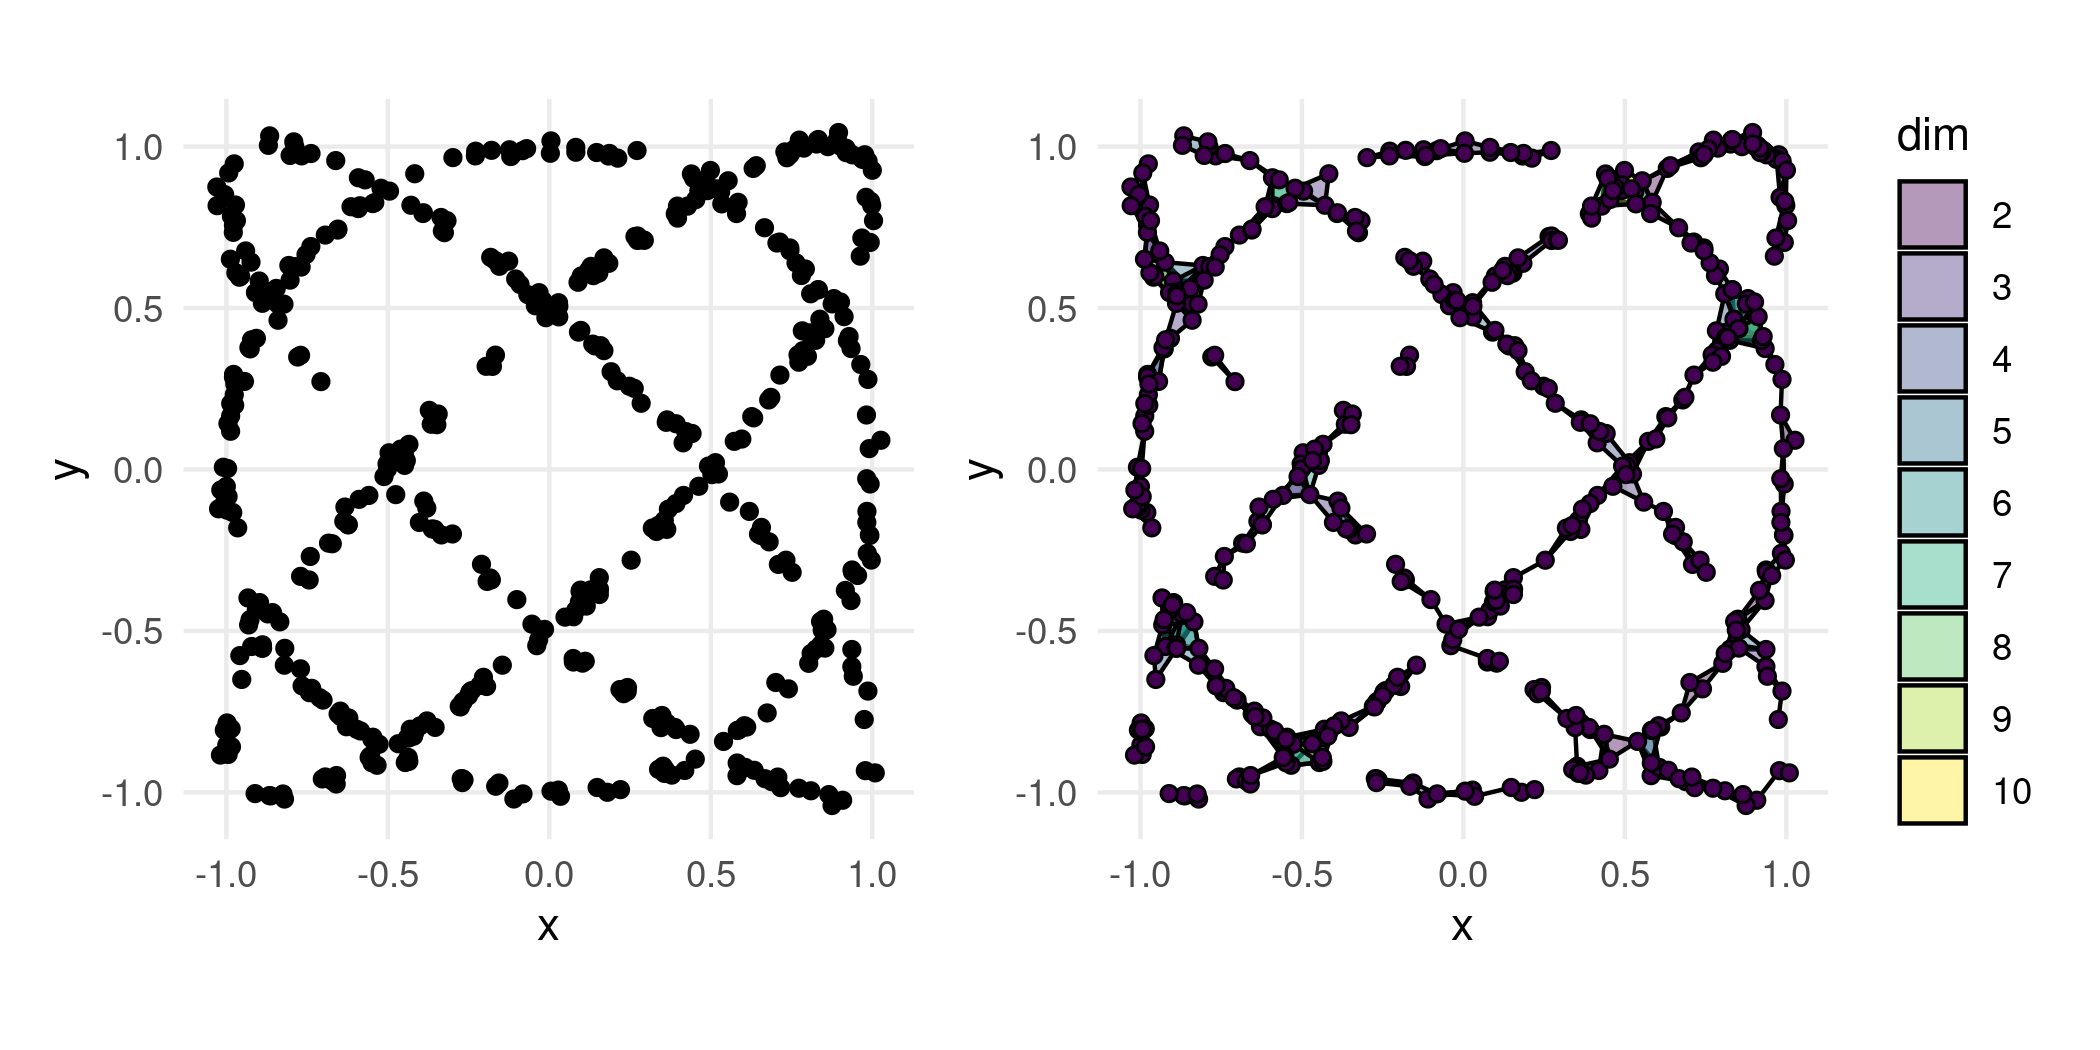
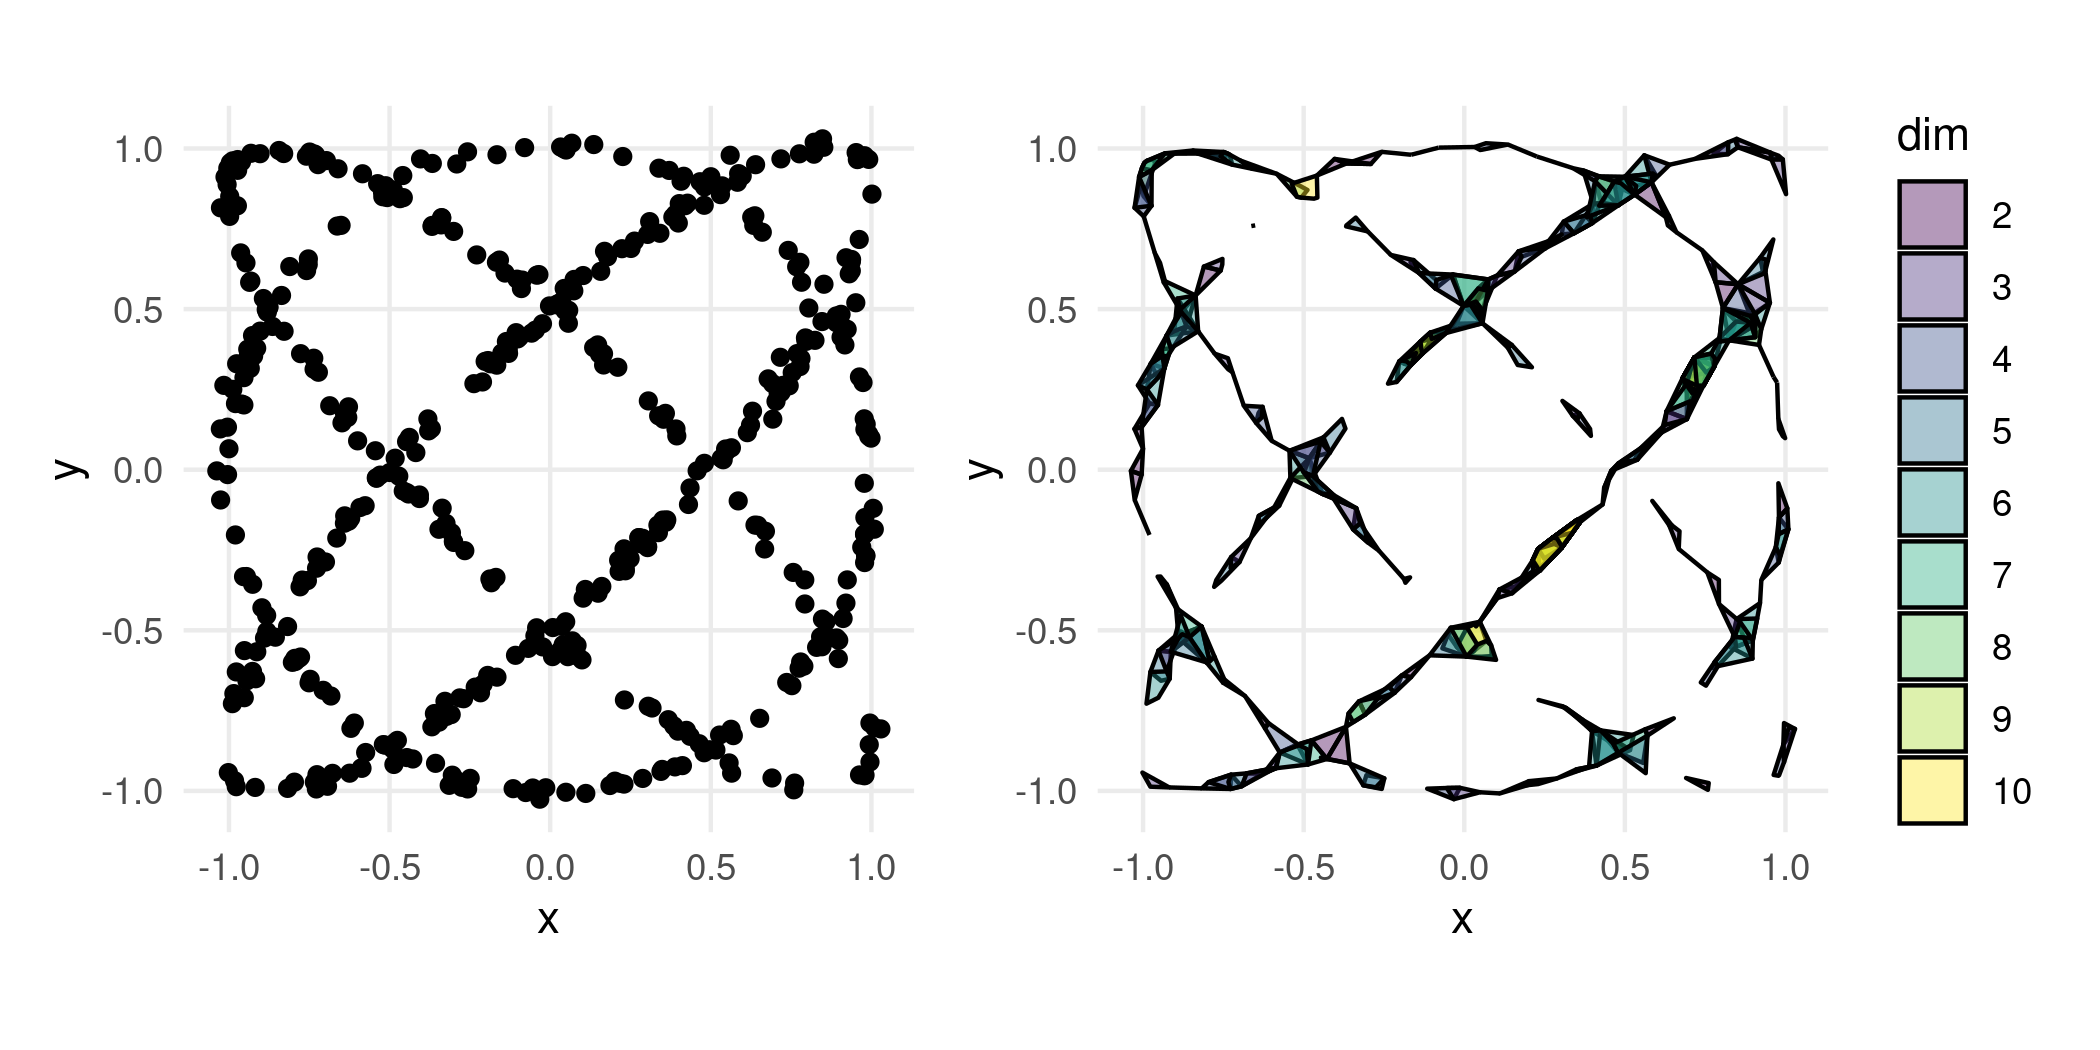
Small README fixes

diff --git a/README.md b/README.md
@@ -135,7 +135,7 @@ ggplot(df_groups, aes(x, y, fill = lab)) +
 <img src="man/figures/README-unnamed-chunk-7-1.png" width="100%" />
 
 It is also possible to use the `fill` aesthetic to visualize the simplex
-dimensions, it just requires faceting:
+dimensions. Typically, faceting the resulting plot is a good idea:
 
 ``` r
 ggplot(df_groups, aes(x, y)) +
@@ -167,7 +167,7 @@ homology](https://en.wikipedia.org/wiki/Persistent_homology)!
 
 In the above animation, we see the structure of the Rips complexes
 change as the radii increase. For example, in the top right plot we see
-two disconnected components last a couple of seconds. In the bottom
+two disconnected components that last a couple of seconds. In the bottom
 right plot, the central hole is present for almost the entire animation.
 In the first plot, we see quite a few short-lived holes, but overall
 there are no features that persist for more than a few frames.
@@ -221,9 +221,8 @@ data via aesthetic mappings: the `point_data` aesthetic.
 
 Both `geom_barcode()` and `geom_persistence()` accept the optional
 `point_data` aesthetic. This aesthetic is different from the typical
-**ggplot2** aesthetics—it needs to be pointing at a list column which
-contains rows of `data.frames`. For example, see how we construct
-`df_nested`:
+**ggplot2** aesthetics—it needs to be pointing at a list column with
+`data.frame` elements. For example, see how we construct `df_nested`:
 
 ``` r
 library("tidyverse")
@@ -242,8 +241,8 @@ df_nested
 #> 2 b     <tibble [50 × 2]>
 ```
 
-This allows for faceting based, see below how we plot barcode charts for
-each group in `df_group`:
+This approach allows for easy faceting. See below how we plot barcode
+charts for each group in `df_group`:
 
 ``` r
 ggplot(df_nested) +
@@ -254,7 +253,7 @@ ggplot(df_nested) +
 
 <img src="man/figures/README-unnamed-chunk-12-1.png" width="100%" />
 
-And similarly, we plot multiple persistence diagrams:
+Similarly, we can plot multiple persistence diagrams:
 
 ``` r
 ggplot(df_nested) +
@@ -315,31 +314,7 @@ set.seed(1)
 df_lissajous <- rvnorm(500, lissajous(3, 3,  0, 0), .014, "tibble", chains = 8) |>
   select(x, y) |>
   slice_sample(n = 500)
-#> Compiling model... Trying to compile a simple C file
-#> Running /usr/lib/R/bin/R CMD SHLIB foo.c
-#> gcc -I"/usr/share/R/include" -DNDEBUG   -I"/home/ubuntu/R/x86_64-pc-linux-gnu-library/4.2/Rcpp/include/"  -I"/home/ubuntu/R/x86_64-pc-linux-gnu-library/4.2/RcppEigen/include/"  -I"/home/ubuntu/R/x86_64-pc-linux-gnu-library/4.2/RcppEigen/include/unsupported"  -I"/home/ubuntu/R/x86_64-pc-linux-gnu-library/4.2/BH/include" -I"/home/ubuntu/R/x86_64-pc-linux-gnu-library/4.2/StanHeaders/include/src/"  -I"/home/ubuntu/R/x86_64-pc-linux-gnu-library/4.2/StanHeaders/include/"  -I"/home/ubuntu/R/x86_64-pc-linux-gnu-library/4.2/RcppParallel/include/"  -I"/home/ubuntu/R/x86_64-pc-linux-gnu-library/4.2/rstan/include" -DEIGEN_NO_DEBUG  -DBOOST_DISABLE_ASSERTS  -DBOOST_PENDING_INTEGER_LOG2_HPP  -DSTAN_THREADS  -DBOOST_NO_AUTO_PTR  -include '/home/ubuntu/R/x86_64-pc-linux-gnu-library/4.2/StanHeaders/include/stan/math/prim/mat/fun/Eigen.hpp'  -D_REENTRANT -DRCPP_PARALLEL_USE_TBB=1      -fpic  -g -O2 -fdebug-prefix-map=/build/r-base-asoVQd/r-base-4.2.1=. -fstack-protector-strong -Wformat -Werror=format-security -Wdate-time -D_FORTIFY_SOURCE=2  -c foo.c -o foo.o
-#> In file included from /home/ubuntu/R/x86_64-pc-linux-gnu-library/4.2/RcppEigen/include/Eigen/Core:88,
-#>                  from /home/ubuntu/R/x86_64-pc-linux-gnu-library/4.2/RcppEigen/include/Eigen/Dense:1,
-#>                  from /home/ubuntu/R/x86_64-pc-linux-gnu-library/4.2/StanHeaders/include/stan/math/prim/mat/fun/Eigen.hpp:13,
-#>                  from <command-line>:
-#> /home/ubuntu/R/x86_64-pc-linux-gnu-library/4.2/RcppEigen/include/Eigen/src/Core/util/Macros.h:628:1: error: unknown type name ‘namespace’
-#>   628 | namespace Eigen {
-#>       | ^~~~~~~~~
-#> /home/ubuntu/R/x86_64-pc-linux-gnu-library/4.2/RcppEigen/include/Eigen/src/Core/util/Macros.h:628:17: error: expected ‘=’, ‘,’, ‘;’, ‘asm’ or ‘__attribute__’ before ‘{’ token
-#>   628 | namespace Eigen {
-#>       |                 ^
-#> In file included from /home/ubuntu/R/x86_64-pc-linux-gnu-library/4.2/RcppEigen/include/Eigen/Dense:1,
-#>                  from /home/ubuntu/R/x86_64-pc-linux-gnu-library/4.2/StanHeaders/include/stan/math/prim/mat/fun/Eigen.hpp:13,
-#>                  from <command-line>:
-#> /home/ubuntu/R/x86_64-pc-linux-gnu-library/4.2/RcppEigen/include/Eigen/Core:96:10: fatal error: complex: No such file or directory
-#>    96 | #include <complex>
-#>       |          ^~~~~~~~~
-#> compilation terminated.
-#> make: *** [/usr/lib/R/etc/Makeconf:168: foo.o] Error 1
-#> done.
-#> Warning: Bulk Effective Samples Size (ESS) is too low, indicating posterior means and medians may be unreliable.
-#> Running the chains for more iterations may help. See
-#> https://mc-stan.org/misc/warnings.html#bulk-ess
+#> Compiling model... done.
 
 p_scatterplot <- 
   ggplot(df_lissajous, aes(x, y)) +
@@ -348,7 +323,9 @@ p_scatterplot <-
 
 p_complex <- 
   ggplot(df_lissajous, aes(x, y)) +
-  geom_simplicial_complex(aes(fill = after_stat(dim)), alpha = .4, diameter = .12) +
+  geom_simplicial_complex(
+    aes(fill = after_stat(dim)), alpha = .4,
+    diameter = .12, zero_skeleton = FALSE) +
   coord_fixed()
 
 p_scatterplot + p_complex
